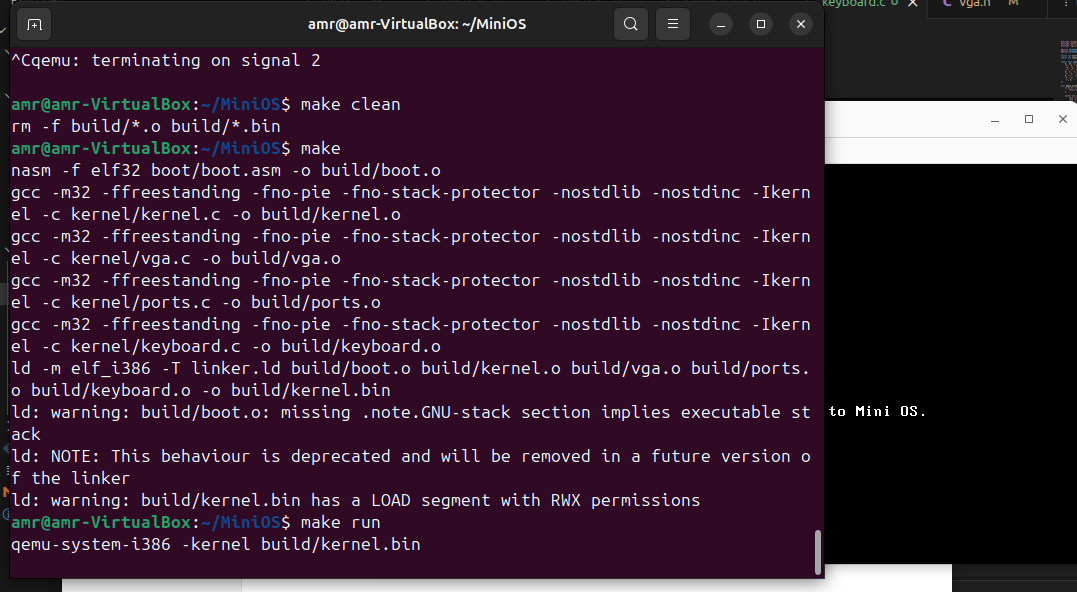
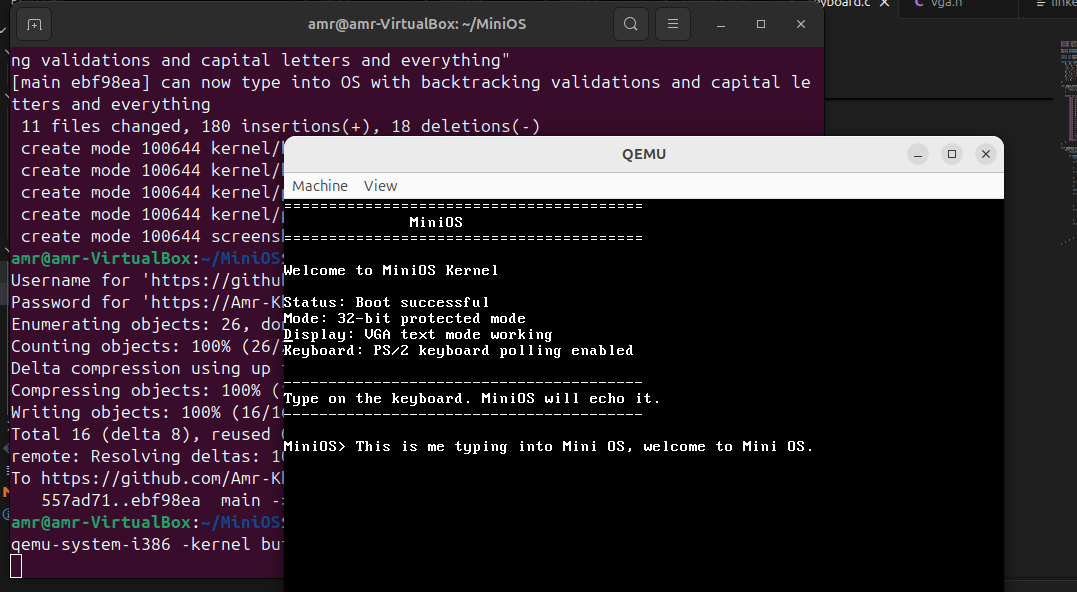
Added basic MiniOS shell with scrolling and basic functions

diff --git a/kernel/keyboard.c b/kernel/keyboard.c
@@ -1,12 +1,15 @@
 #include "keyboard.h"
 #include "ports.h"
 #include "vga.h"
+#include "shell.h"
 
 #define KEYBOARD_DATA_PORT 0x60
 #define KEYBOARD_STATUS_PORT 0x64
+#define INPUT_BUFFER_SIZE 128
 
 static int shift_pressed = 0;
 static int input_length = 0;
+static char input_buffer[INPUT_BUFFER_SIZE];
 
 static char scancode_to_ascii[128] = {
     0,  27, '1', '2', '3', '4', '5', '6',
@@ -78,14 +81,20 @@ void keyboard_loop() {
                 if (input_length > 0) {
                     vga_backspace();
                     input_length--;
+                    input_buffer[input_length] = '\0';
                 }
                 continue;
             }
 
             if (key == '\n') {
                 print_newline();
-                print("MiniOS> ");
+
+                input_buffer[input_length] = '\0';
+                shell_handle_command(input_buffer);
+
                 input_length = 0;
+                input_buffer[0] = '\0';
+
                 continue;
             }
 
@@ -94,8 +103,12 @@ void keyboard_loop() {
                     key = apply_shift(key);
                 }
 
-                print_char(key);
-                input_length++;
+                if (input_length < INPUT_BUFFER_SIZE - 1) {
+                    print_char(key);
+                    input_buffer[input_length] = key;
+                    input_length++;
+                    input_buffer[input_length] = '\0';
+                }
             }
         }
     }

diff --git a/kernel/shell.c b/kernel/shell.c
@@ -1,0 +1,53 @@
+#include "shell.h"
+#include "vga.h"
+
+int string_equals(const char *a, const char *b) {
+    int i = 0;
+
+    while (a[i] != '\0' && b[i] != '\0') {
+        if (a[i] != b[i]) {
+            return 0;
+        }
+        i++;
+    }
+
+    return a[i] == '\0' && b[i] == '\0';
+}
+
+void shell_start() {
+    print("MiniOS Shell\n");
+    print("Type 'help' to see available commands.\n");
+    print("\n");
+    print("MiniOS> ");
+}
+
+void shell_handle_command(const char *command) {
+    if (string_equals(command, "help")) {
+        print("Available commands:\n");
+        print("help     - Show available commands\n");
+        print("clear    - Clear the screen\n");
+        print("about    - Show information about MiniOS\n");
+        print("version  - Show MiniOS version\n");
+    }
+    else if (string_equals(command, "clear")) {
+        clear_screen();
+    }
+    else if (string_equals(command, "about")) {
+        print("MiniOS is a small educational x86 kernel project.\n");
+        print("It is built in C and Assembly and runs in QEMU.\n");
+    }
+    else if (string_equals(command, "version")) {
+        print("MiniOS version 0.1\n");
+    }
+    else if (command[0] == '\0') {
+        // Empty command: do nothing
+    }
+    else {
+        print("Unknown command: ");
+        print(command);
+        print("\n");
+        print("Type 'help' to see available commands.\n");
+    }
+
+    print("MiniOS> ");
+}

diff --git a/kernel/vga.c b/kernel/vga.c
@@ -20,12 +20,39 @@ void clear_screen() {
     cursor_col = 0;
 }
 
+void scroll_screen() {
+    char *video_memory = (char *) VGA_MEMORY;
+
+    // Move every line one row up
+    for (int row = 1; row < VGA_HEIGHT; row++) {
+        for (int col = 0; col < VGA_WIDTH; col++) {
+            int from = (row * VGA_WIDTH + col) * 2;
+            int to = ((row - 1) * VGA_WIDTH + col) * 2;
+
+            video_memory[to] = video_memory[from];
+            video_memory[to + 1] = video_memory[from + 1];
+        }
+    }
+
+    // Clear the last line
+    int last_row = VGA_HEIGHT - 1;
+
+    for (int col = 0; col < VGA_WIDTH; col++) {
+        int index = (last_row * VGA_WIDTH + col) * 2;
+        video_memory[index] = ' ';
+        video_memory[index + 1] = text_color;
+    }
+
+    cursor_row = VGA_HEIGHT - 1;
+    cursor_col = 0;
+}
+
 void print_newline() {
     cursor_col = 0;
     cursor_row++;
 
     if (cursor_row >= VGA_HEIGHT) {
-        cursor_row = 0;
+        scroll_screen();
     }
 }
 

diff --git a/kernel/kernel.c b/kernel/kernel.c
@@ -1,5 +1,6 @@
 #include "vga.h"
 #include "keyboard.h"
+#include "shell.h"
 
 void kernel_main() {
     clear_screen();
@@ -14,12 +15,14 @@ void kernel_main() {
     print("Mode: 32-bit protected mode\n");
     print("Display: VGA text mode working\n");
     print("Keyboard: PS/2 keyboard polling enabled\n");
+    print("Shell: Basic command handling enabled\n");
     print("\n");
     print("----------------------------------------\n");
-    print("Type on the keyboard. MiniOS will echo it.\n");
+    print("System initialization complete.\n");
     print("----------------------------------------\n");
     print("\n");
-    print("MiniOS> ");
+
+    shell_start();
 
     keyboard_loop();
 

diff --git a/kernel/shell.h b/kernel/shell.h
@@ -1,0 +1,7 @@
+#ifndef SHELL_H
+#define SHELL_H
+
+void shell_start();
+void shell_handle_command(const char *command);
+
+#endif
